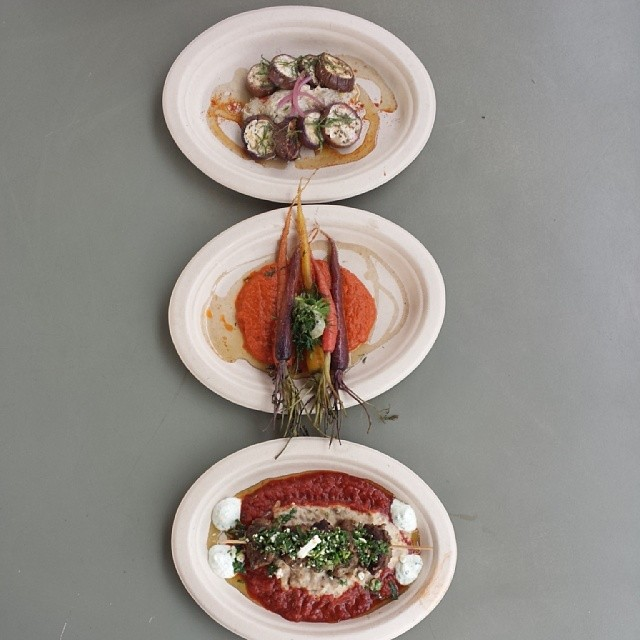
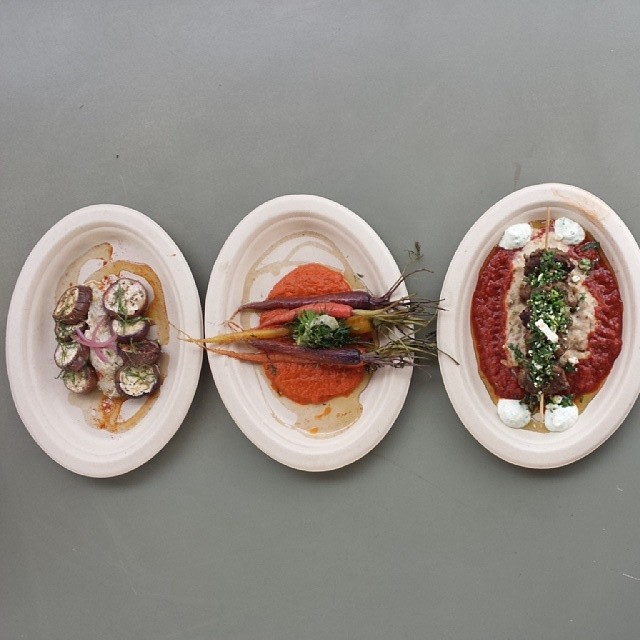
patrizis

diff --git a/remake/style.css b/remake/style.css
@@ -14,10 +14,8 @@ img{
   right: 35%;
   width: 40%;
   align: center;
-  
-
- 
 }
+
 nav {
   /* font-family: Georgia, 'Times New Roman', Times, serif; */
   font-family: 'fredericka the great',fantasy;
@@ -110,25 +108,74 @@ nav ul:active {
   height: auto;
 }
 
-.footerPhoto {
-  display: flex;
-  flex-direction: row;
-  
+/*.footerPhoto {
+  display: grid;
+  grid-template-columns: 320px 320px 320px;
+  grid-template-rows: 100px 100px 100px;
 }
 
 .tomPhoto {
-  position: absolute;
-  width: 800px;
-  height: 100px;
+  display: grid;
+  grid-column: 1/2;
+  grid-row: 1/2;
 }
 
 .threePlate {
-  position: absolute;
-  width: 800px;
+  display: grid;
+  grid-column: 2/3;
+  grid-row: 1/2;
+}
+
+.singlePlate {
+  display: grid;
+  grid-column: 3/4;
+  grid-row: 1/2;
+}
+*/
+.footerPhoto {
+  display: flex;
+  flex-direction: row;
+  justify-content: space-between;
+}
+
+
+.tomPhoto {
+  margin: 15px;
+  margin-left: 11%;
+  width: 320px;
   height: 100px;
+  border: 2px solid black;
+}
+
+.tomPhoto img {
+  width: 320px;
+  height: auto;
+}
+
+.threePlate {
+  margin: 15px;
+  width: 320px;
+  height: 100px;
+  border: 2px solid black;
+  
+}
+
+.threePlate img {
+  width: 320px;
+  height: auto;
 }
 .singlePlate { 
-  position: absolute;
-  width: 800px;
+  margin: 15px;
+  margin-right: 11%;
+  width: 320px;
   height: 100px;
+  border: 2px solid black;
+
 }
+
+.singlePlate img {
+  border: 2px solid black;
+  object-fit: cover;
+  width: 320px;
+  height: auto;
+

diff --git a/remake/index.html b/remake/index.html
@@ -30,6 +30,7 @@
       <div class="ourFoodPhoto">
       <img src="pasta.jpg">
       </div>
+      <p>Hello</p>
       <div>
       <!-- This is for my passage -->
       </div>
@@ -61,7 +62,7 @@
     <img src="threePlate.jpg">
   </div>
   <div class="singlePlate">
-    <img src="">
+    <img src="singlePlate.jpg">
   </div>
 
   </div>
